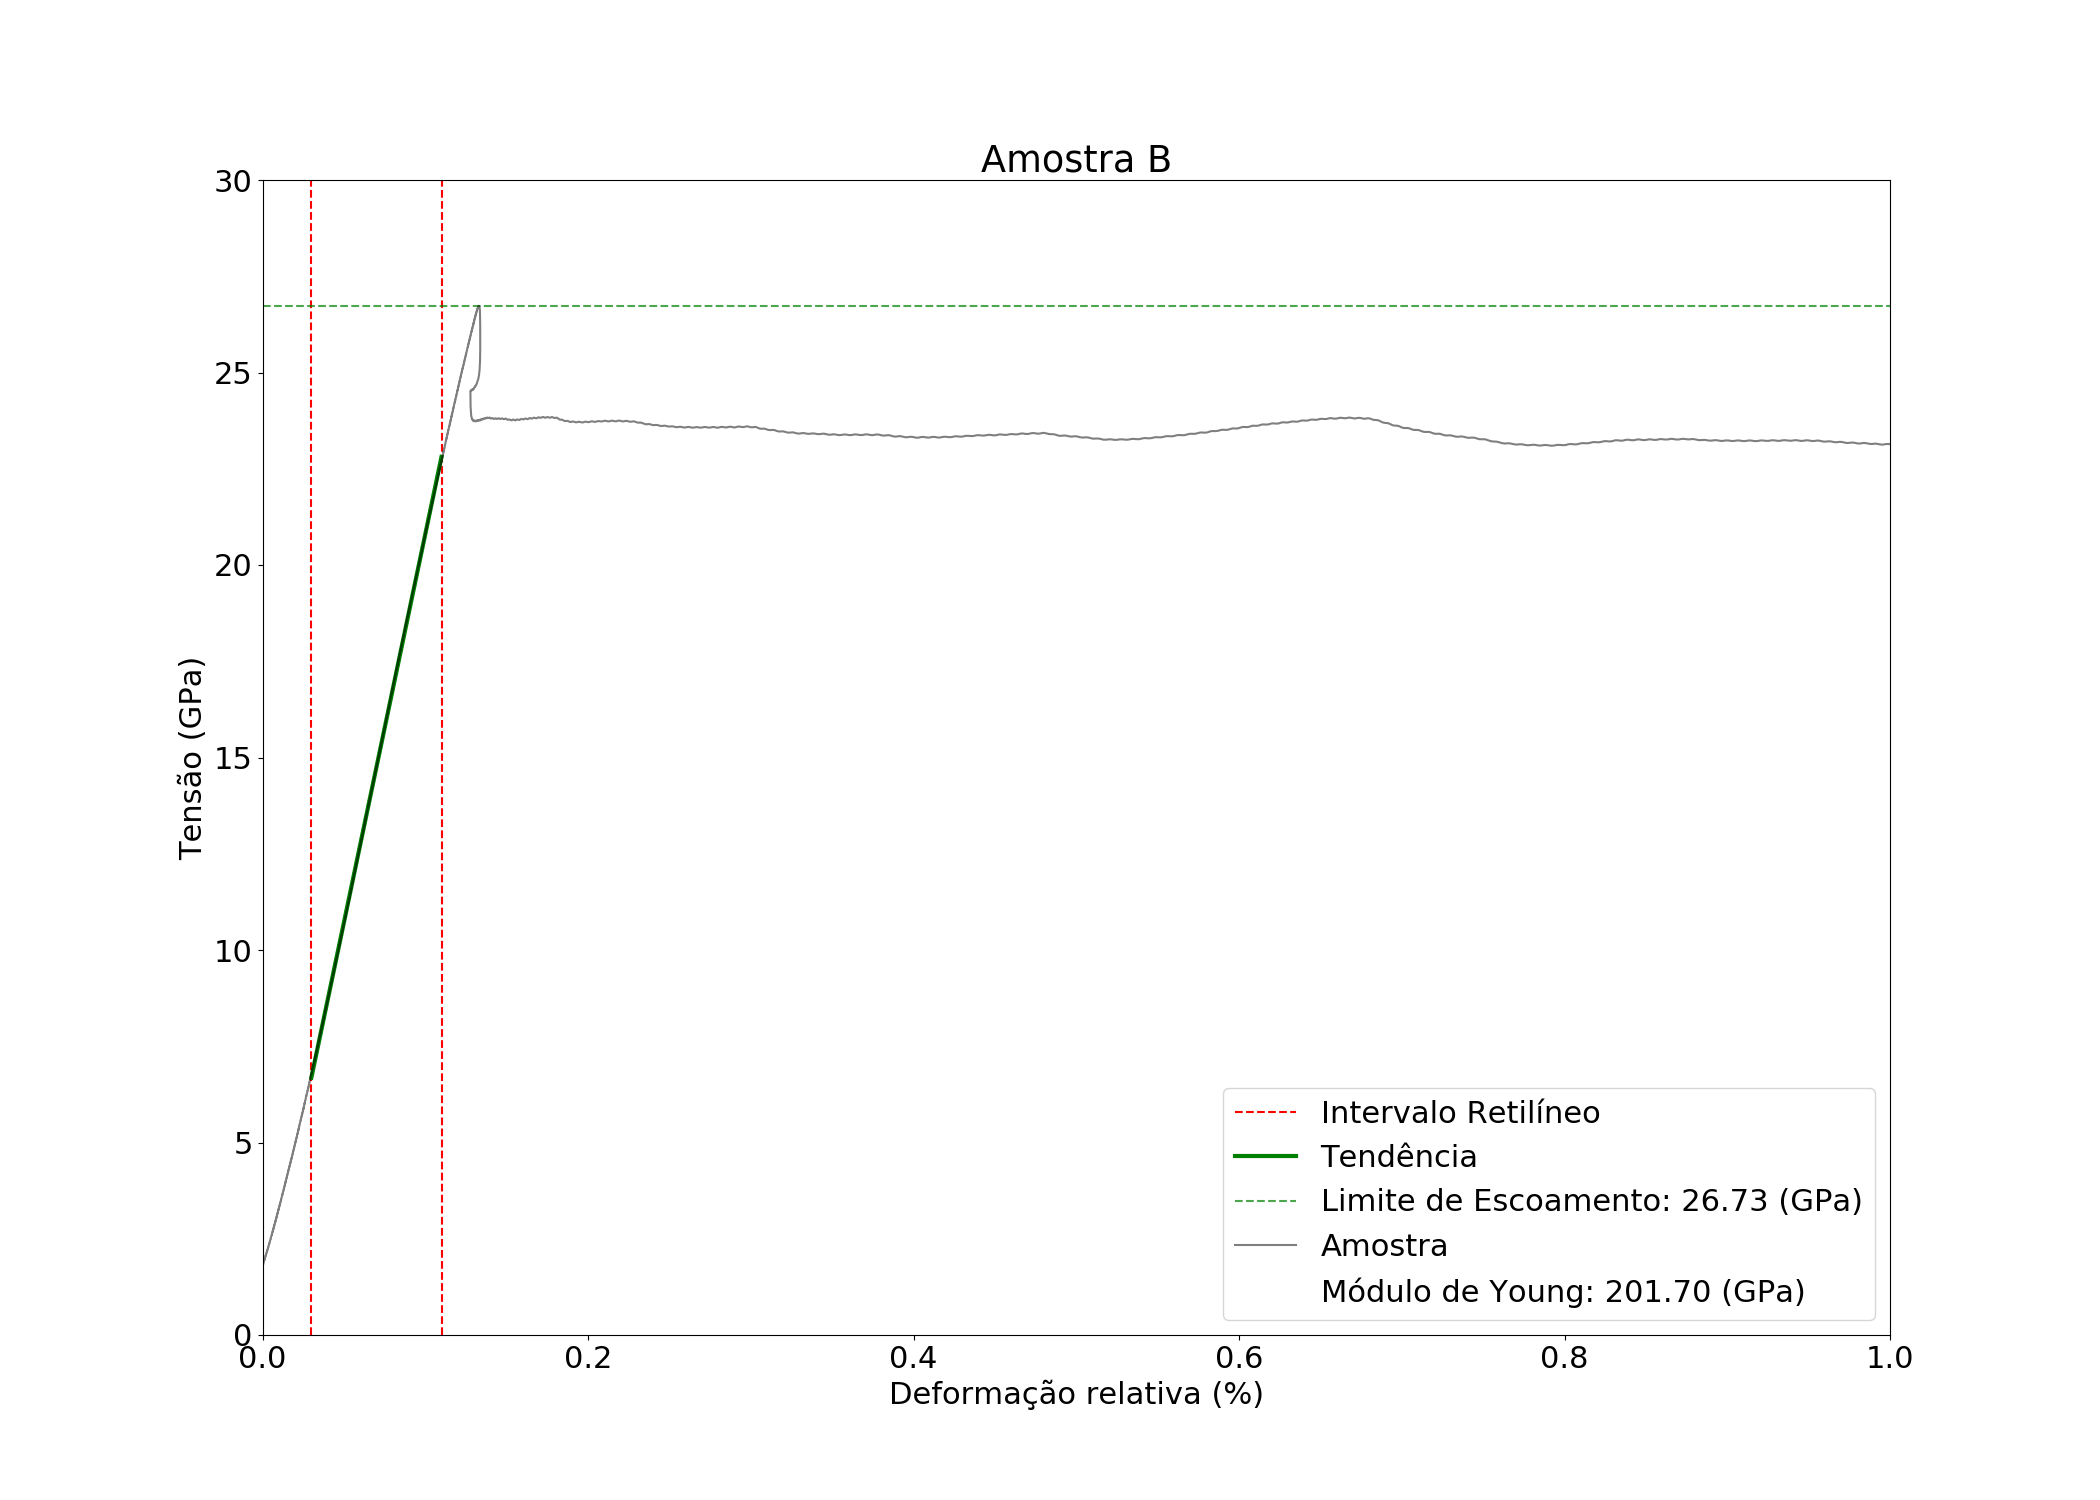
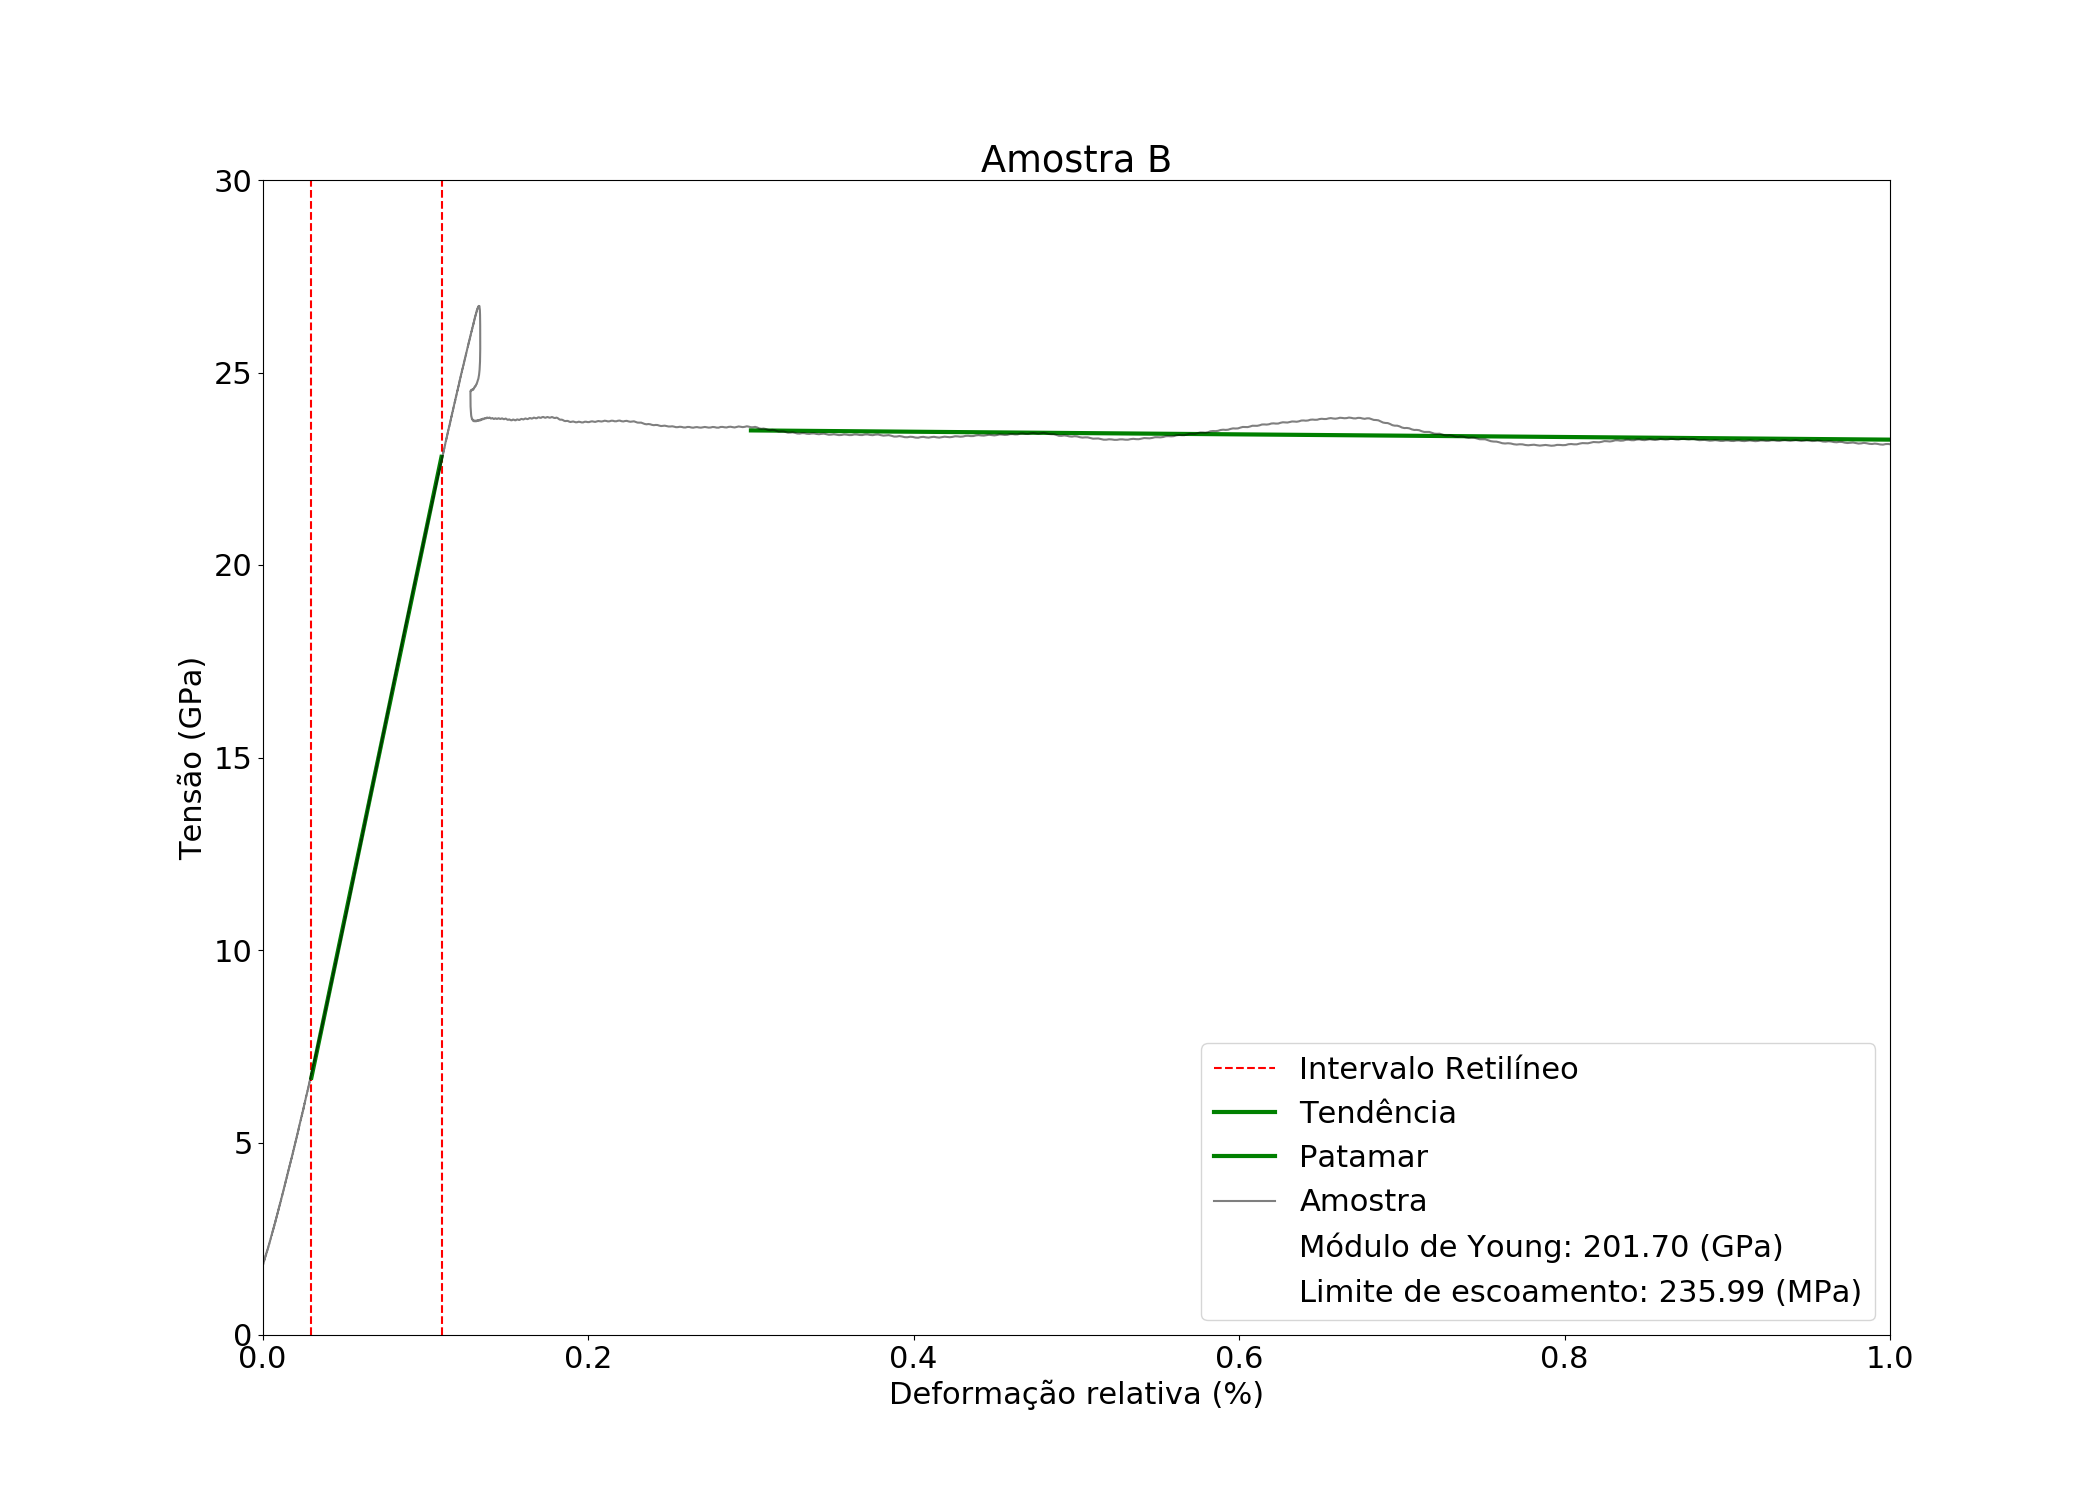
Small changes.

Changed region(s): [[0.619, 0.7053, 0.8667, 0.8893], [0.3714, 0.276, 0.8976, 0.3067]]

diff --git a/descMatAnalysis.py b/descMatAnalysis.py
@@ -19,9 +19,9 @@ print("Import Successful!")
 print("Reading Files...")
 plt.rcParams.update({'font.size': 22})
     
-arq = pd.read_csv(r"C://Users//cadud//Repos//MaterialAnalysis//data//a.csv", sep = ";")
-arqB = pd.read_csv(r"C://Users//cadud//Repos//MaterialAnalysis//data//b.csv", sep = ";")
-arqC = pd.read_csv(r"C://Users//cadud//Repos//MaterialAnalysis//data//c.csv", sep = ";")
+arq = pd.read_csv(os.getcwd()+"//data//a.csv", sep = ";")
+arqB = pd.read_csv(os.getcwd()+"//data//b.csv", sep = ";")
+arqC = pd.read_csv(os.getcwd()+"//data//c.csv", sep = ";")
 # print(arq)
 arqB = arqB.apply(lambda x: np.float64(x))
 arqC = arqC.apply(lambda x: np.float64(x))
@@ -39,9 +39,11 @@ arq["Tension (GPa)"] = arq["Force (N)"]/(np.pi*(8.5/2)**2) #arq["Force (N)"]/(np
 arqB["Tension (GPa)"] = arqB["Force (kN)"]/(np.pi*(8.55/2)**2)
 arqC["Tension (GPa)"] = arqC["Force (kN)"]/(np.pi*(8.5/2)**2) 
 
-arq["Tension (GPa)"] /= 10
-arqB["Tension (GPa)"] /= 10
-arqC["Tension (GPa)"] /= 10
+
+scale = 10
+arq["Tension (GPa)"] /= scale
+arqB["Tension (GPa)"] /= scale
+arqC["Tension (GPa)"] /= scale
 
 arq = arq.rename({"Force (N)":"Force (kN)", "Time (min)": "Time (s)"}, axis = 1)
 # arqB = arqB.rename({"Position (mm)":"Deformation (%)"}, axis = 1)
@@ -112,8 +114,17 @@ def Plot(start = 0.11, end = 0.35, force = arq["Tension (GPa)"], strain = arq["S
 
     if limitsForLocalMax is not None:
         _limsmall, _limlarge = limitsForLocalMax
-        _max = findLocalMaximum(strain, _limsmall, _limlarge, force)
-        plt.axhline(_max, label = "Limite de Escoamento: %.2f (GPa)" % _max, alpha = 0.7, c = "Green", ls = "--")
+        boolArr3 = np.logical_and(strain >= _limsmall, strain <= _limlarge)
+        # _max = findLocalMaximum(strain, _limsmall, _limlarge, force)
+        # plt.axhline(_max, label = "Limite de Escoamento: %.2f (GPa)" % _max, alpha = 0.7, c = "Green", ls = "--")
+
+
+        # Faz um ajuste de retas por MMQ para a região acima.
+        b2, m = polyfit(strain[boolArr3], force[boolArr3], 1)
+        plt.plot(strain[boolArr3], b2 + m*strain[boolArr3], label = "Patamar", c = "green", lw = 3)
+            
+        plt.scatter([0],[0], label = "Limite de escoamento: %.2f (MPa)" % (b2*10), alpha  = 0)
+        print("Trendline drawn!")
 
 
     if draw_projection:
@@ -123,7 +134,7 @@ def Plot(start = 0.11, end = 0.35, force = arq["Tension (GPa)"], strain = arq["S
         young_line = (axis-px)*youngMod - py
         elasticLimit, intersectedStrain = intersectCurves(strain[boolArr2], force[boolArr2], axis, young_line)
         print("Intersection Found!")
-        plt.scatter(elasticLimit, intersectedStrain, c = "Blue", lw = 4, zorder = 5, label = "Limite de Escoamento: %.2f (GPa)" % intersectedStrain)
+        plt.scatter(elasticLimit, intersectedStrain, c = "Blue", lw = 4, zorder = 5, label = "Limite de Escoamento: %.2f (MPa)" % (intersectedStrain*10))
         plt.plot(axis, young_line)
         plt.annotate("%.2f" % intersectedStrain, (elasticLimit + 0.5, intersectedStrain + 0.5))
 
@@ -144,7 +155,7 @@ def Plot(start = 0.11, end = 0.35, force = arq["Tension (GPa)"], strain = arq["S
     if ybounds is not None:    
         plt.ylim(ybounds[0],ybounds[1])
     plt.legend(loc = 4)
-    plt.savefig(writings["filename"])
+    plt.savefig(os.getcwd() + "//data//" + writings["filename"])
     plt.show()
 
 print("Filtering data to remove bumps...")
@@ -182,7 +193,7 @@ if doB:
                 "xlabel":"Deformação relativa (%)", 
                 "ylabel":"Tensão (GPa)", 
                 "filename":"Str_Tens(B).png"}
-    Plot(0.03, 0.11, arqB["Tension (GPa)"], arqB["Strain (%)"], draw_projection=False, writings = writings, ybounds = (0,30), limitsForLocalMax = (0.01, 0.4))
+    Plot(0.03, 0.11, arqB["Tension (GPa)"], arqB["Strain (%)"], draw_projection=False, writings = writings, ybounds = (0,30), limitsForLocalMax=(0.3,1))
 
     ### ----
 
@@ -199,7 +210,7 @@ if doC:
                 "xlabel":"Deformação relativa (%)", 
                 "ylabel":"Tensão (GPa)", 
                 "filename":"Str_Tens(C).png"}
-    Plot(0.001, 0.15, arqC["Tension (GPa)"], arqC["Strain (%)"], draw_projection=False, writings = writings, ybounds = (0,41), limitsForLocalMax = (0.15, 0.25))
+    Plot(0.001, 0.15, arqC["Tension (GPa)"], arqC["Strain (%)"], draw_projection=False, writings = writings, ybounds = (0,41), limitsForLocalMax=(0.3,1))
 
     ### ----
 
